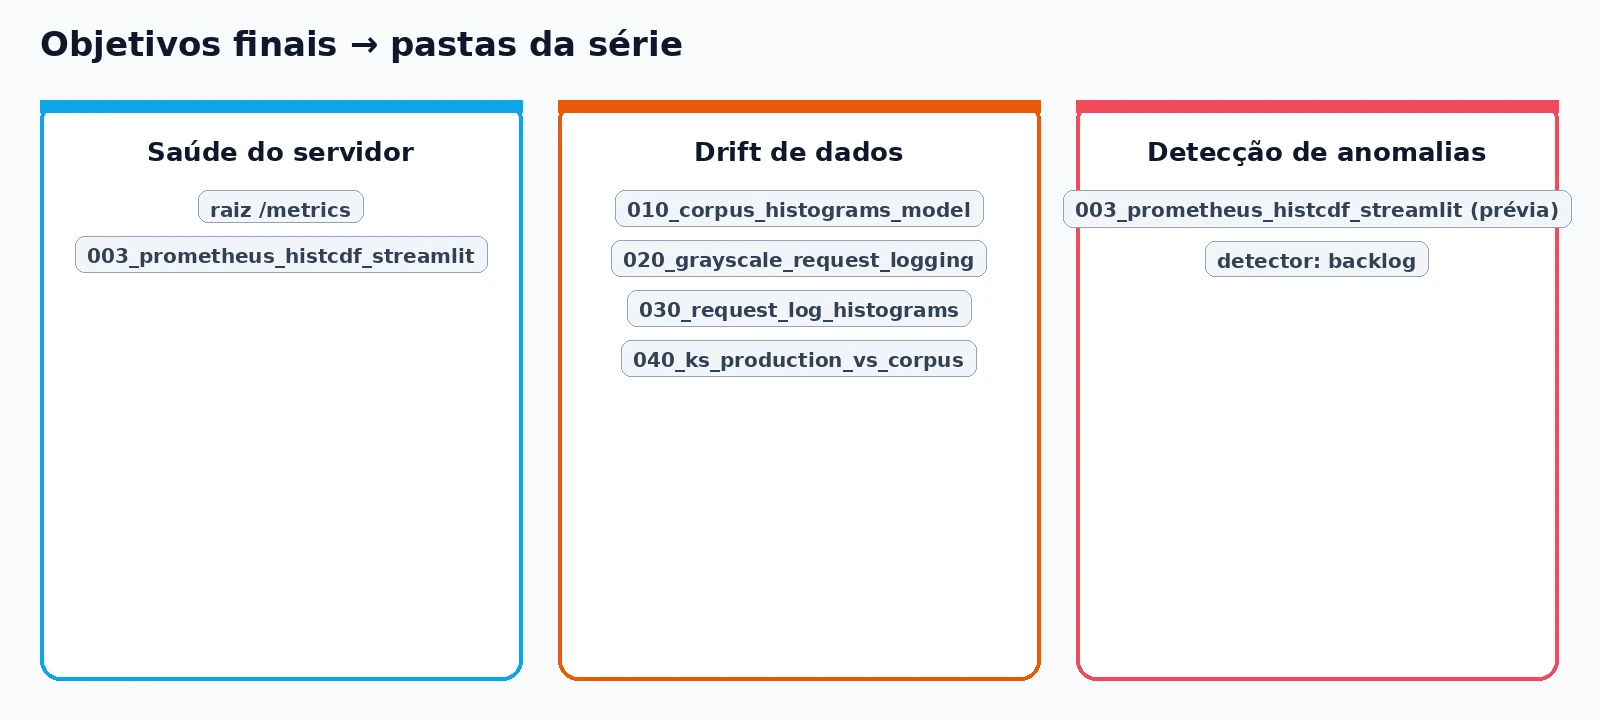
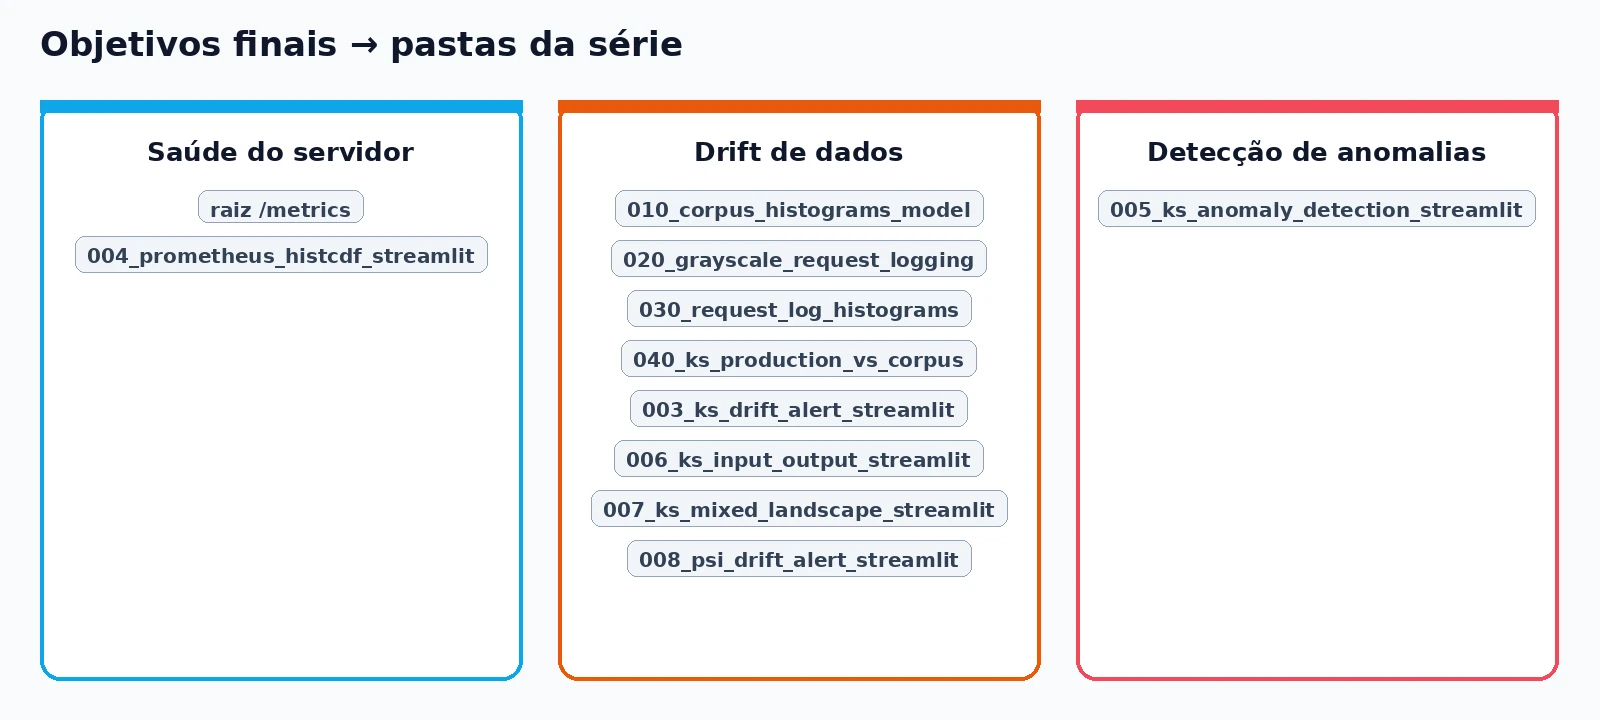
docs(lessons): liga as aulas na ordem dos quatro atos
Com o índice narrativo já fixado na aula 000, faltava materializar o roteiro
nas pastas: cada handout passa a declarar anterior e seguinte segundo a
ordem de estudo (vocabulário → saúde → tijolos → teatro de drift e
anomalia), e as pastas 010–040 explicam para onde apontam sem fingir
substituir o cartão de alerta da 003.

A abertura da 003 recorda que a latência já foi tratada na 004; a 008
encerra o Ato III como irmã em PSI. O mapa de objetivos na 000 e o teste
associado acompanham a nova distribuição das pastas por fim de
monitoramento. Alterações profundas do laboratório Prometheus na 004
permanecem fora deste commit.

diff --git a/000_mlops_pipelines_goals/scripts/build_illustrations.py b/000_mlops_pipelines_goals/scripts/build_illustrations.py
@@ -21,18 +21,20 @@ GOAL_COLUMNS: tuple[tuple[str, tuple[str, ...]], ...] = (
     (
         "Drift de dados",
         (
-            "003_ks_drift_alert_streamlit",
             "010_corpus_histograms_model",
             "020_grayscale_request_logging",
             "030_request_log_histograms",
             "040_ks_production_vs_corpus",
+            "003_ks_drift_alert_streamlit",
+            "006_ks_input_output_streamlit",
+            "007_ks_mixed_landscape_streamlit",
+            "008_psi_drift_alert_streamlit",
         ),
     ),
     (
         "Detecção de anomalias",
         (
             "005_ks_anomaly_detection_streamlit",
-            "004_prometheus_histcdf_streamlit (métricas)",
         ),
     ),
 )

diff --git a/000_mlops_pipelines_goals/tests/test_show_assets.py b/000_mlops_pipelines_goals/tests/test_show_assets.py
@@ -133,7 +133,7 @@ def test_justfile_has_open_goals_map() -> None:
 def test_builder_constants() -> None:
     mod = _load_builder()
     assert mod.RUNTIME_LABEL == "Runtime (BentoML)"
-    assert mod.ANOMALY_BACKLOG_CHIP == "detector: backlog"
+    assert mod.ANOMALY_BACKLOG_CHIP == "005_ks_anomaly_detection_streamlit"
     titles = [col[0] for col in mod.GOAL_COLUMNS]
     assert titles == list(GOAL_LABELS)
     assert mod.ANOMALY_BACKLOG_CHIP in mod.GOAL_COLUMNS[2][1]

diff --git a/004_prometheus_histcdf_streamlit/README.md b/004_prometheus_histcdf_streamlit/README.md
@@ -35,9 +35,15 @@ monitoramento. Esta aula cobre sobretudo a **saúde do serviço** vista pela
 
 | Aula | Pergunta central | Grandeza típica |
 | :--- | :--- | :--- |
-| **000** | Mapa treino → inferência → monitoramento | — |
-| **003** / **008** | Os *dados* (mundo das imagens) ainda combinam com a referência? | Distribuição de L; **D** ou **PSI** |
+| **000** | Mapa treino → inferência → monitoramento; quatro atos de estudo | — |
+| **001** / **002** | O que são histograma e CDF? | Contagens e fração acumulada |
 | **004** (esta) | A *tubulação* responde com latência interpretável? | Duração de requisição; taxa; p95 |
+| **003** / **008** | Os *dados* (mundo das imagens) ainda combinam com a referência? | Distribuição de L; **D** ou **PSI** |
+
+Na [ordem de estudo](../000_mlops_pipelines_goals/README.md), esta aula é o
+**Ato I** (saúde): vem depois do vocabulário `001`–`002` e da ponte de
+*deploy*, e **antes** dos tijolos `010`–`040` e do teatro `003`…`008`. O
+número da pasta (`004`) não muda; só a posição no roteiro.
 
 Um resultado de latência **não** demonstra qualidade das imagens nem
 desempenho de um modelo. Os cartões de alerta das aulas 003 e 008 (estados
@@ -156,12 +162,38 @@ Esse intervalo de coleta é diferente da **janela de consulta**, como
 `[1m]`, e do **passo do gráfico**, que determina em quais instantes a
 expressão será avaliada para desenhar a curva.
 
-**Parâmetro e pergunta.** A **janela** de consulta (`[1m]`, `[5m]`, …) e o
-**quantil** (p95, p99) são parâmetros que você escolhe para uma pergunta de
-latência. Mudar a janela pode mudar a leitura sem que o serviço tenha mudado
-no mesmo instante: a janela curta reage mais cedo; a longa mistura fases. O
-mesmo vale para o quantil: p95 e p99 resumem a mesma população de outra
-maneira. Declare a pergunta, depois o parâmetro — não o contrário.
+**Janela e quantil.** A **janela** de consulta (`[1m]`, `[5m]`, …) limita o
+histórico que a expressão usa. A janela curta reage mais cedo a uma mudança;
+a longa mistura fases. Mudar a janela pode alterar o número lido sem que o
+serviço tenha mudado no mesmo instante.
+
+Um **quantil** (ou percentil) responde: «abaixo de que valor está a fração
+*q* das observações?» Com *q* = 0,50 (p50 / mediana), metade das observações
+fica abaixo do valor; com *q* = 0,95 (p95), cerca de 95% ficam abaixo; com
+*q* = 0,99 (p99), cerca de 99%. Em monitoramento de latência, p50 descreve o
+caso típico; p95 e p99 descrevem a cauda lenta (a fração que mais incomoda o
+usuário). Em comércio eletrónico, um p95 de checkout alto pode coexistir com
+média baixa se poucas compras forem lentas. Em APIs de inferência, o p95 por
+`endpoint` ajuda a ver se uma rota específica arrasta a experiência.
+
+Exemplo numérico com dez latências já ordenadas (ms):
+
+~~~text
+20, 22, 24, 25, 28, 30, 35, 40, 80, 200
+~~~
+
+| Quantil | Leitura aproximada nesta amostra | Valor |
+| :--- | :--- | ---: |
+| p50 | 5.ª e 6.ª posições (metade da amostra) | ≈ 29 ms |
+| p95 | perto da 9,5.ª posição (cauda) | entre 80 e 200 ms |
+| p99 | ainda mais na cauda | próximo de 200 ms |
+
+A média destas dez medidas é 50,4 ms: fica perto do miolo da amostra, mas
+esconde a cauda que o p95/p99 tornam visível. Com histogramas Prometheus não
+temos a lista completa; estimamos o quantil a partir dos buckets (secção 6).
+
+Formulue primeiro a pergunta («a rota grayscale ficou lenta na última
+janela de um minuto?»), depois escolha janela e *q*.
 
 
 ## 3. Métricas, labels e seletores
@@ -707,6 +739,13 @@ just generate-prom-illustrations
 Retorne ao [índice da trilha MLOps](../000_mlops_pipelines_goals/README.md)
 ou à [apresentação do repositório](../README.md).
 
+## Roteiro da trilha
+
+| | Pasta |
+| :--- | :--- |
+| **Anterior** | [`002_histogram_cdf_streamlit`](../002_histogram_cdf_streamlit/README.md) (+ ponte de *deploy*; [`docs/prometheus.md`](../docs/prometheus.md)) |
+| **Seguinte** | [`010_corpus_histograms_model`](../010_corpus_histograms_model/README.md) |
+
 ## Glossário
 
 | Termo | Significado nesta aula |
@@ -718,7 +757,7 @@ ou à [apresentação do repositório](../README.md).
 | **`rate` / `increase`** | Transformações de contador em taxa ou crescimento na janela |
 | **Quantil (p95)** | Valor sob o qual está a fração *q* das observações (estimado) |
 | **Recording rule** | Expressão pré-calculada e gravada como nova série |
-| **`pending` / `firing`** | Estados da regra de alerta no Prometheus (não são os cartões da 003/008) |
+| **`pending` / `firing`** | Estados da regra de alerta no Prometheus |
 
 
 ## Referências para consulta

diff --git a/003_ks_drift_alert_streamlit/README.md b/003_ks_drift_alert_streamlit/README.md
@@ -32,6 +32,12 @@ Imagine um serviço de imagens em produção: o cliente envia uma foto, a API
 devolve a versão em cinza, o status é **200**, o tempo de resposta está baixo.
 Do ponto de vista de disponibilidade, o dia está tranquilo.
 
+Na ordem de estudo da trilha, a
+[aula 004](../004_prometheus_histcdf_streamlit/README.md) já ensinou a
+interrogar **latência** e volume com Prometheus/PromQL (saúde do servidor).
+Aqui a pergunta muda: adequação dos **dados** — o mundo das imagens — não a
+duração da requisição.
+
 Agora mude o *conteúdo* das fotos — de praias para florestas, de estúdio para
 rua à noite — e mantenha o mesmo endpoint. O HTTP continua verde. A latência
 continua aceitável. O que mudou foi o **mundo** que chega ao modelo.
@@ -984,4 +990,14 @@ python scripts/workflow_boxes/box_01_luminancia.py
 6. Limiares FRTB / crédito: ver links na
    [seção 12](#12-limiares-de-d--ks-em-outros-contextos)
 
-[`004_prometheus_histcdf_streamlit`](../004_prometheus_histcdf_streamlit/README.md)
+## Roteiro da trilha
+
+Ordem de estudo em quatro atos: ver
+[`000_mlops_pipelines_goals`](../000_mlops_pipelines_goals/README.md).
+Esta pasta abre o Ato III (drift e anomalia), depois dos tijolos `010`–`040`.
+
+| | Pasta |
+| :--- | :--- |
+| **Anterior** | [`040_ks_production_vs_corpus`](../040_ks_production_vs_corpus/README.md) |
+| **Seguinte** | [`005_ks_anomaly_detection_streamlit`](../005_ks_anomaly_detection_streamlit/README.md) |
+| Irmã (PSI) | [`008_psi_drift_alert_streamlit`](../008_psi_drift_alert_streamlit/README.md) |

diff --git a/010_corpus_histograms_model/README.md b/010_corpus_histograms_model/README.md
@@ -339,4 +339,19 @@ Escolha **três** fotografias suas (ou capturas do celular). Para cada uma:
    semelhantes ao corpus? Em que canal (L versus R/G/B) a diferença aparece com
    mais clareza?
 
-[`020_grayscale_request_logging`](../020_grayscale_request_logging/README.md)
+## Para onde isto aponta
+
+Esta pasta ensina a **empacotar** corpus, modelo picklable e rotas
+`/monitor-histogram-corpus-*`. Isso não é o cartão de alerta nem a parábola
+«HTTP verde / mundo errado». A literacia de decisão sobre afastamento de
+distribuições está na
+[`003_ks_drift_alert_streamlit`](../003_ks_drift_alert_streamlit/README.md)
+(e o mapa dos fins em
+[`000_mlops_pipelines_goals`](../000_mlops_pipelines_goals/README.md)).
+
+## Roteiro da trilha
+
+| | Pasta |
+| :--- | :--- |
+| **Anterior** | [`004_prometheus_histcdf_streamlit`](../004_prometheus_histcdf_streamlit/README.md) |
+| **Seguinte** | [`020_grayscale_request_logging`](../020_grayscale_request_logging/README.md) |

diff --git a/040_ks_production_vs_corpus/README.md b/040_ks_production_vs_corpus/README.md
@@ -299,3 +299,19 @@ do capítulo KS (`[10,0,0,10]` vs `[0,10,10,0]`) e calcule D à mão; confira co
 `ks_statistic` + `ks_p_value` para `n_eff = 10`. Entregue: (a) o JSON real do
 endpoint; (b) D e p do exemplo de brinquedo; (c) uma frase dizendo se rejeitaria
 H₀ a 5% em cada caso.
+
+## Para onde isto aponta
+
+O endpoint devolve **D** / valor-p (contrato HTTP). O ritual
+INCONCLUSIVO / ALERTA / TRANQUILO, a parábola e o painel didático estão na
+[`003_ks_drift_alert_streamlit`](../003_ks_drift_alert_streamlit/README.md).
+Para anomalia em janela ou candidato, use a
+[`005_ks_anomaly_detection_streamlit`](../005_ks_anomaly_detection_streamlit/README.md).
+Esta pasta **não** substitui a `003`.
+
+## Roteiro da trilha
+
+| | Pasta |
+| :--- | :--- |
+| **Anterior** | [`030_request_log_histograms`](../030_request_log_histograms/README.md) |
+| **Seguinte** | [`003_ks_drift_alert_streamlit`](../003_ks_drift_alert_streamlit/README.md) |

diff --git a/030_request_log_histograms/README.md b/030_request_log_histograms/README.md
@@ -189,4 +189,18 @@ só para montar essa figura estática. Bibliotecas de gráfico estatístico
 encaixam melhor em notebooks, CLIs ou apps interativos; aqui o contrato é
 «receber/devolver imagem» de ponta a ponta.
 
-[`040_ks_production_vs_corpus`](../040_ks_production_vs_corpus/README.md)
+## Para onde isto aponta
+
+Comparar barras production versus corpus **à vista** não substitui o semáforo
+de alerta. Continue na
+[`003_ks_drift_alert_streamlit`](../003_ks_drift_alert_streamlit/README.md)
+para a literacia KS; a irmã
+[`008_psi_drift_alert_streamlit`](../008_psi_drift_alert_streamlit/README.md)
+troca o instrumento (PSI). O endpoint KS no serviço vem a seguir na `040`.
+
+## Roteiro da trilha
+
+| | Pasta |
+| :--- | :--- |
+| **Anterior** | [`020_grayscale_request_logging`](../020_grayscale_request_logging/README.md) |
+| **Seguinte** | [`040_ks_production_vs_corpus`](../040_ks_production_vs_corpus/README.md) |

diff --git a/020_grayscale_request_logging/README.md b/020_grayscale_request_logging/README.md
@@ -177,4 +177,17 @@ só para montar essa figura estática. Bibliotecas de gráfico estatístico
 encaixam melhor em notebooks, CLIs ou apps interativos; aqui o contrato é
 «receber/devolver imagem» de ponta a ponta.
 
-[`030_request_log_histograms`](../030_request_log_histograms/README.md)
+## Para onde isto aponta
+
+O log em disco **alimenta** a vigilância; interpretar o afastamento
+production/corpus com cartão de alerta é papel da
+[`003_ks_drift_alert_streamlit`](../003_ks_drift_alert_streamlit/README.md).
+Para **olhar** histogramas lado a lado no próprio serviço, continue na
+[`030_request_log_histograms`](../030_request_log_histograms/README.md).
+
+## Roteiro da trilha
+
+| | Pasta |
+| :--- | :--- |
+| **Anterior** | [`010_corpus_histograms_model`](../010_corpus_histograms_model/README.md) |
+| **Seguinte** | [`030_request_log_histograms`](../030_request_log_histograms/README.md) |

diff --git a/006_ks_input_output_streamlit/README.md b/006_ks_input_output_streamlit/README.md
@@ -217,6 +217,13 @@ just test
 A 003 olha só a **entrada**. Esta aula coloca a **saída** no mesmo aparelho
 de alerta e mostra quando os dois lados divergem.
 
-[`005_ks_anomaly_detection_streamlit`](../005_ks_anomaly_detection_streamlit/README.md)
-· [`003_ks_drift_alert_streamlit`](../003_ks_drift_alert_streamlit/README.md)
-· [`008_psi_drift_alert_streamlit`](../008_psi_drift_alert_streamlit/README.md)
+## Roteiro da trilha
+
+Ordem de estudo em quatro atos: ver
+[`000_mlops_pipelines_goals`](../000_mlops_pipelines_goals/README.md).
+
+| | Pasta |
+| :--- | :--- |
+| **Anterior** | [`005_ks_anomaly_detection_streamlit`](../005_ks_anomaly_detection_streamlit/README.md) |
+| **Seguinte** | [`007_ks_mixed_landscape_streamlit`](../007_ks_mixed_landscape_streamlit/README.md) |
+| Âncora KS | [`003_ks_drift_alert_streamlit`](../003_ks_drift_alert_streamlit/README.md) |

diff --git a/008_psi_drift_alert_streamlit/README.md b/008_psi_drift_alert_streamlit/README.md
@@ -752,3 +752,15 @@ python scripts/workflow_boxes/box_01_massas.py
 6. Kolmogorov–Smirnov (comparação opcional com \(D\)) —
    [Wikipédia](https://en.wikipedia.org/wiki/Kolmogorov%E2%80%93Smirnov_test)
 7. Aula irmã KS: [`003_ks_drift_alert_streamlit`](../003_ks_drift_alert_streamlit/README.md)
+
+## Roteiro da trilha
+
+Ordem de estudo em quatro atos: ver
+[`000_mlops_pipelines_goals`](../000_mlops_pipelines_goals/README.md).
+Esta pasta encerra o Ato III: mesma parábola da `003`, outro instrumento (PSI).
+
+| | Pasta |
+| :--- | :--- |
+| **Anterior** | [`007_ks_mixed_landscape_streamlit`](../007_ks_mixed_landscape_streamlit/README.md) |
+| **Seguinte** | — (fim do roteiro numerado; releia os três fins em [`000`](../000_mlops_pipelines_goals/README.md)) |
+| Irmã (KS) | [`003_ks_drift_alert_streamlit`](../003_ks_drift_alert_streamlit/README.md) |

diff --git a/002_histogram_cdf_streamlit/README.md b/002_histogram_cdf_streamlit/README.md
@@ -128,4 +128,14 @@ cdf ← cdf_from_counts(counts)
 O gráfico usa os **centros** `(edges[i]+edges[i+1])/2` para alinhar barras e
 pontos da CDF.
 
-[`003_ks_drift_alert_streamlit`](../003_ks_drift_alert_streamlit/README.md)
+## Roteiro da trilha
+
+Ordem de estudo em quatro atos: ver
+[`000_mlops_pipelines_goals`](../000_mlops_pipelines_goals/README.md).
+Depois do vocabulário, a ponte é entregar o runtime (BentoML / imagem OCI);
+em seguida o Ato I cobre a **saúde** do servidor — não o alerta KS da `003`.
+
+| | Pasta |
+| :--- | :--- |
+| **Anterior** | [`001_histogram_cdf_cli`](../001_histogram_cdf_cli/README.md) |
+| **Seguinte** | [`004_prometheus_histcdf_streamlit`](../004_prometheus_histcdf_streamlit/README.md) (após a ponte de *deploy*; instalação em [`docs/prometheus.md`](../docs/prometheus.md)) |

diff --git a/005_ks_anomaly_detection_streamlit/README.md b/005_ks_anomaly_detection_streamlit/README.md
@@ -233,6 +233,12 @@ corridas unitárias focadas sem pipe para `tail`.
 Ver bibliografia KS / drift no handout da
 [aula 003](../003_ks_drift_alert_streamlit/README.md#18-bibliografia).
 
-[`003_ks_drift_alert_streamlit`](../003_ks_drift_alert_streamlit/README.md) ·
-[`006_ks_input_output_streamlit`](../006_ks_input_output_streamlit/README.md) ·
-[`000`](../000_mlops_pipelines_goals/README.md)
+## Roteiro da trilha
+
+Ordem de estudo em quatro atos: ver
+[`000_mlops_pipelines_goals`](../000_mlops_pipelines_goals/README.md).
+
+| | Pasta |
+| :--- | :--- |
+| **Anterior** | [`003_ks_drift_alert_streamlit`](../003_ks_drift_alert_streamlit/README.md) |
+| **Seguinte** | [`006_ks_input_output_streamlit`](../006_ks_input_output_streamlit/README.md) |
